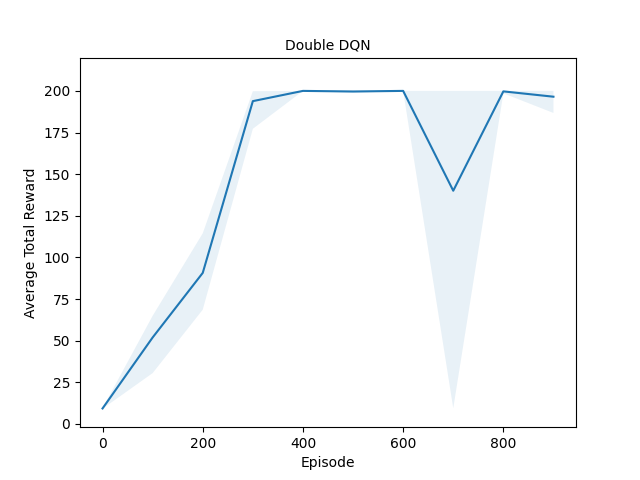
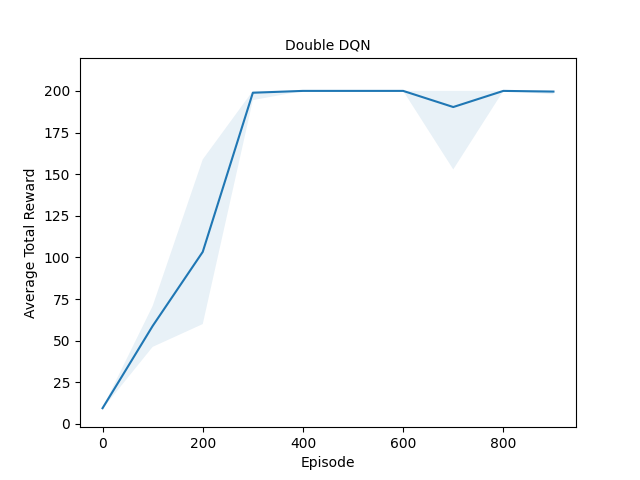
used fwd func in trn

diff --git a/dqn.py b/dqn.py
@@ -101,15 +101,16 @@ class DeepQNetwork(nn.Module):
         # calculate q value and target
         # use the correct network for the target based on self.double_dqn
         # BEGIN STUDENT SOLUTION
-        state = torch.tensor(state, dtype=torch.float32).to(self.device).unsqueeze(0)
-        next_state = torch.tensor(new_state, dtype=torch.float32).to(self.device).unsqueeze(0)
 
+        #state = torch.tensor(state, dtype=torch.float32).to(self.device).unsqueeze(0)
+        #next_state = torch.tensor(new_state, dtype=torch.float32).to(self.device).unsqueeze(0)
         q_values = self.q_net(state)
         with torch.no_grad():
             if not self.double_dqn:
-                next_q = torch.max(self.target_net(next_state), dim=1)[0]           
-
-            
+                next_q = self.q_net(new_state)
+            else:
+                next_q = self.target_net(new_state)
+        
         return q_values, next_q
     
         # END STUDENT SOLUTION
@@ -151,16 +152,17 @@ class DeepQNetwork(nn.Module):
         dones = dones.to(self.device)
 
         # curr q vals
-        q_values = self.q_net(states).gather(1, actions.unsqueeze(1)).squeeze(1)
+        q_values, next_q_vals = self.forward(states, next_states)
+        q_values = q_values.squeeze(0).gather(1, actions.unsqueeze(1)).squeeze(-1)
 
         # computing targets
         with torch.no_grad():
+            
             if not self.double_dqn:
-                next_q_vals = self.q_net(next_states).max(1)[0]
+                next_q_vals = next_q_vals.squeeze(0).max(1)[0]
             
             elif self.double_dqn:
-                next_q_vals = torch.gather(self.target_net(next_states),1,self.q_net(next_states).argmax(1,keepdim=True)).squeeze(-1)
-
+                next_q_vals = torch.gather(next_q_vals, 1, self.q_net(next_states).argmax(1,keepdim=True)).squeeze(-1)
             
             
             targets = rewards + self.gamma * next_q_vals * (1 - dones)
